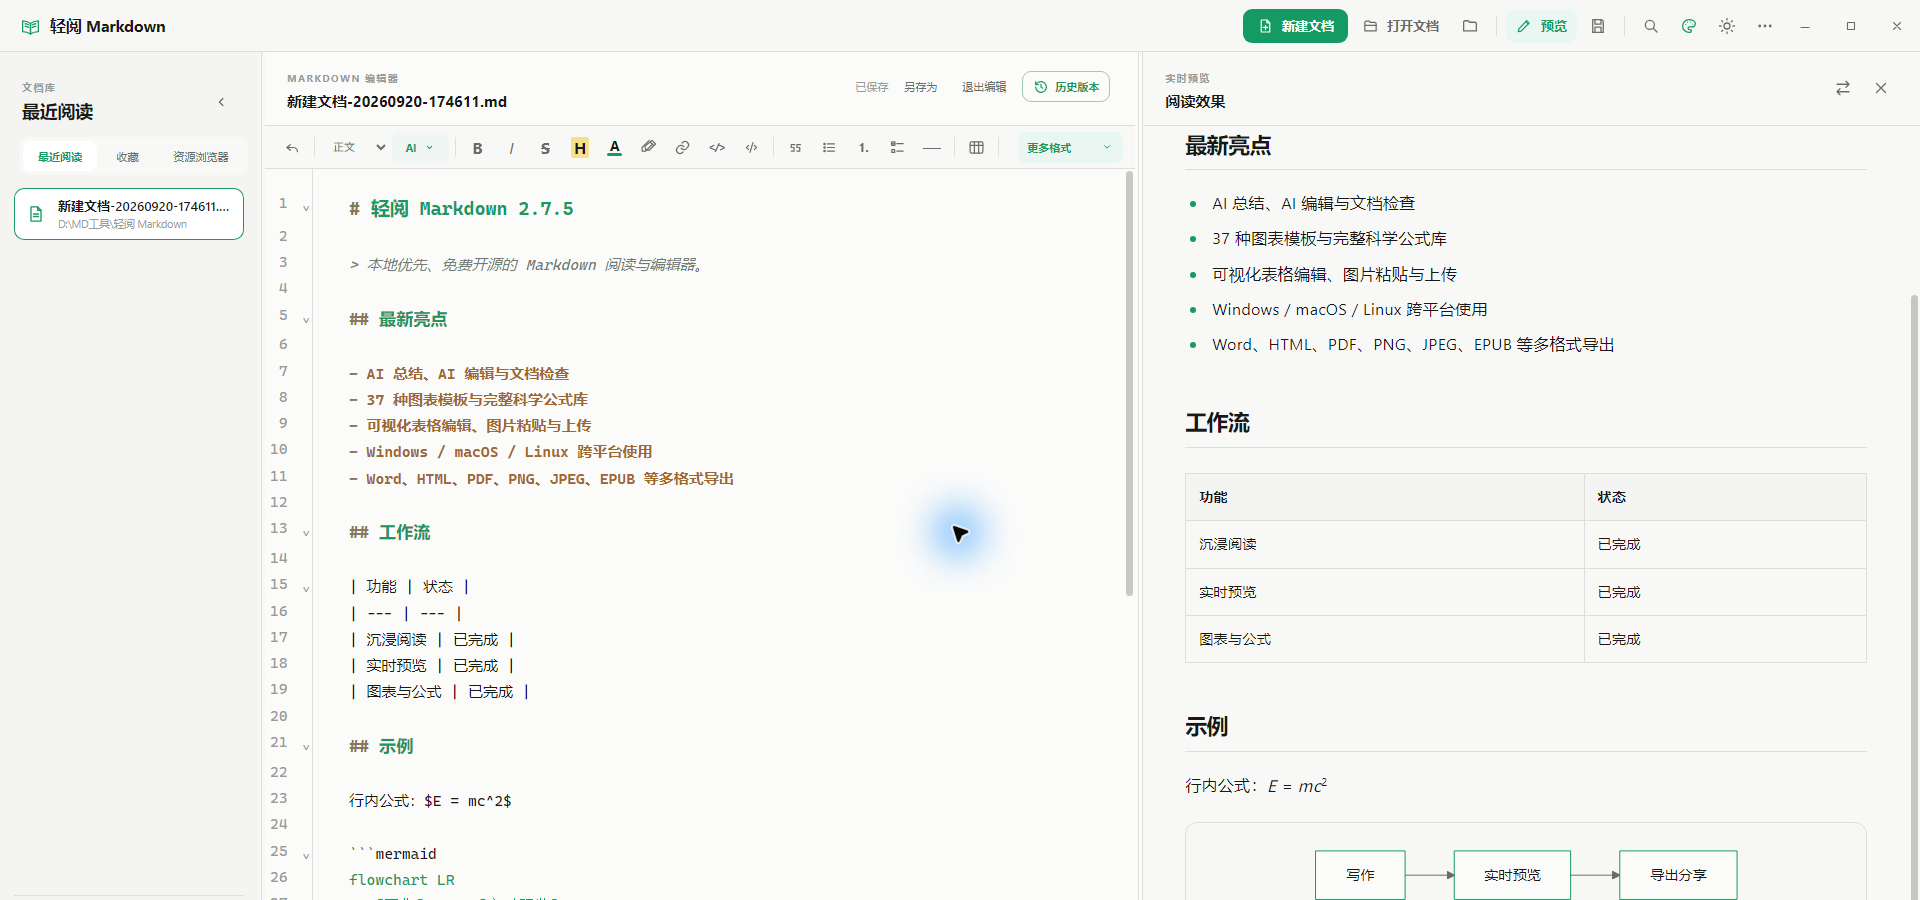
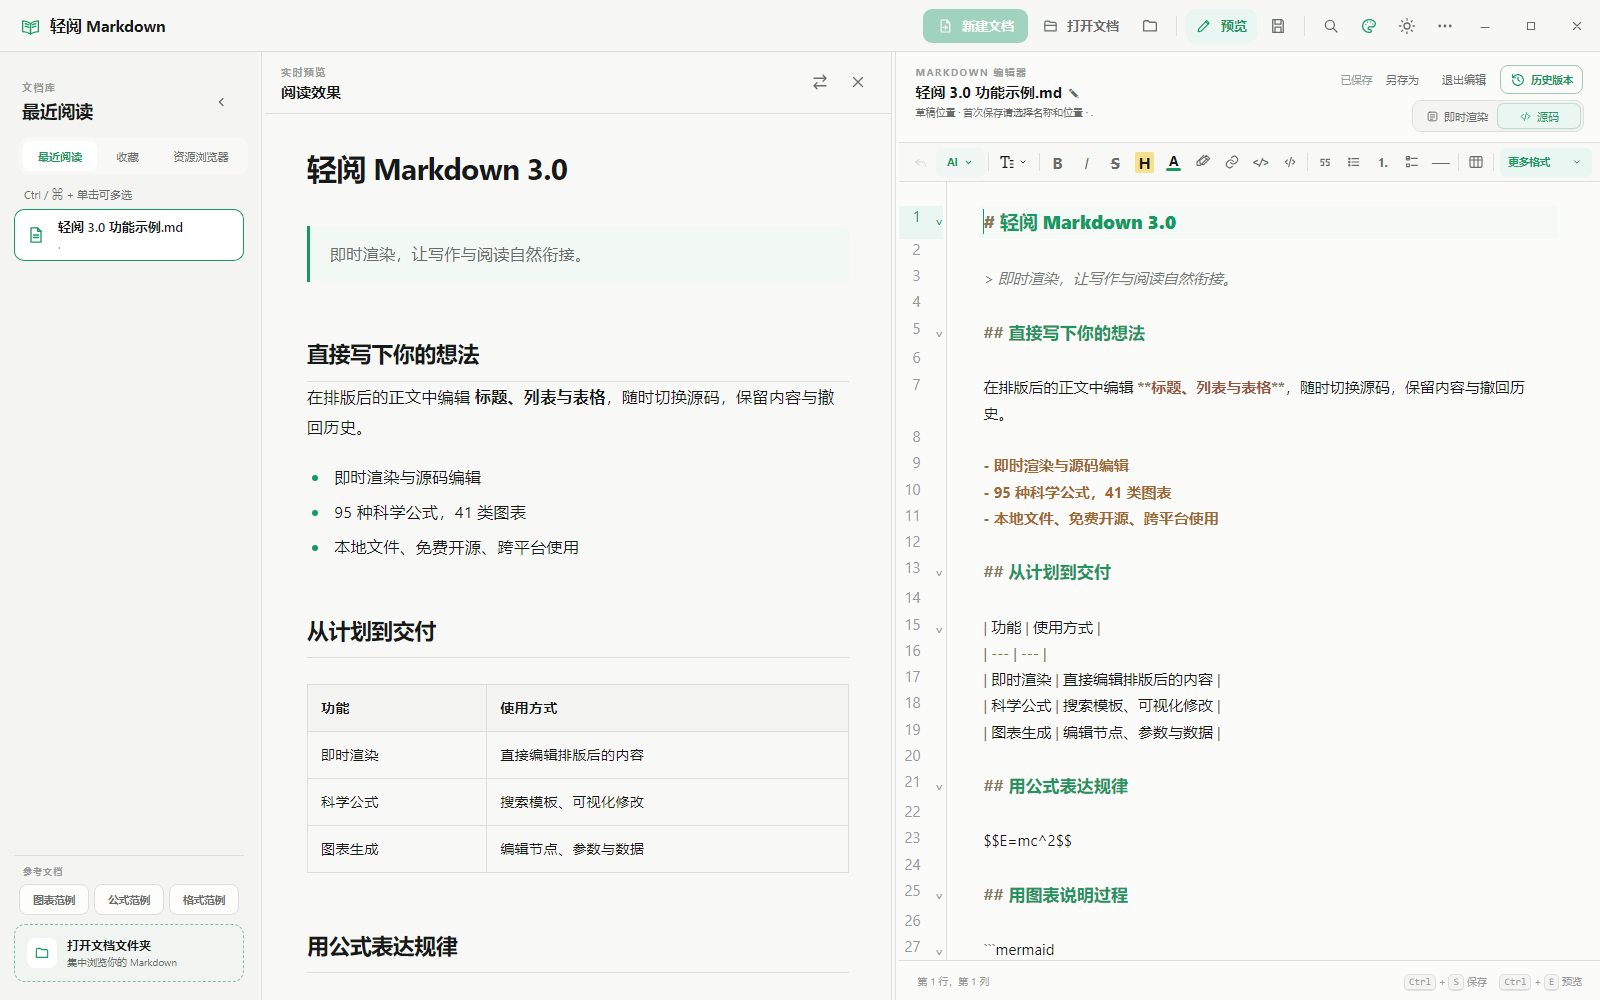
docs: publish current v3.0.0 screenshots and live editing gallery

diff --git a/screenshots/README.md b/screenshots/README.md
@@ -1,0 +1,21 @@
+# Product screenshots
+
+Updated 2026-10-19 for Quillite Markdown 3.0.0. Captured from the maintained application's actual frontend (`frontend/src/main.js` and `renderer.js`), using isolated browser preferences and bilingual sample Markdown documents. These are application UI captures, not a recreated marketing mockup. Native window controls and file-system operations are not exercised by this capture method.
+
+Reviewed against the current V3.0.0 interface on 2026-10-20. The main README files present live editing first and select light/dark images using `<picture>`.
+
+Each image is 1600 × 1000 pixels, with matching Chinese / English and light / dark variants:
+
+- `01-home.png`: Home and example-document entry points.
+- `02-reader.png`: Reading view and outline.
+- `03-split-editor.png`: Markdown source with a separate preview.
+- `04-live-editor.png`: Live-rendered editing and the Live editing / Source switch.
+
+Chinese light images are in this directory; dark images are in `dark/`. English images are in `en/` and `en/dark/`. Preserve native aspect ratio when displaying them.
+
+| View | 中文 · 浅色 | 中文 · 深色 | English · Light | English · Dark |
+|---|---|---|---|---|
+| Home | [首页](01-home.png) | [首页](dark/01-home.png) | [Home](en/01-home.png) | [Home](en/dark/01-home.png) |
+| Reader | [阅读](02-reader.png) | [阅读](dark/02-reader.png) | [Reader](en/02-reader.png) | [Reader](en/dark/02-reader.png) |
+| Source + preview | [源码分栏](03-split-editor.png) | [源码分栏](dark/03-split-editor.png) | [Source + preview](en/03-split-editor.png) | [Source + preview](en/dark/03-split-editor.png) |
+| Live editing | [即时渲染](04-live-editor.png) | [即时渲染](dark/04-live-editor.png) | [Live editing](en/04-live-editor.png) | [Live editing](en/dark/04-live-editor.png) |

diff --git a/README.en.md b/README.en.md
@@ -109,13 +109,27 @@ Preview builds on CommonMark/GFM with extensions such as highlights and footnote
 
 ## Screenshots
 
+Actual V3.0.0 interface captured with sample documents. Images follow the browser's light/dark preference.
+
+Live-rendered editing: type directly in rendered prose, lists and tables.
+
+<picture>
+  <source media="(prefers-color-scheme: dark)" srcset="screenshots/en/dark/04-live-editor.png">
+  <img src="screenshots/en/04-live-editor.png" alt="V3.0.0 live editing with full-width content, an in-place table and the Live editing / Source switch">
+</picture>
+
 | Home | Reader |
 |---|---|
-| ![Home](screenshots/en/01-home.png) | ![Reader](screenshots/en/02-reader.png) |
+| <picture><source media="(prefers-color-scheme: dark)" srcset="screenshots/en/dark/01-home.png"><img src="screenshots/en/01-home.png" alt="V3.0.0 home with chart, equation and formatting examples"></picture> | <picture><source media="(prefers-color-scheme: dark)" srcset="screenshots/en/dark/02-reader.png"><img src="screenshots/en/02-reader.png" alt="V3.0.0 reader with a searchable document outline"></picture> |
 
-![Editing with split preview](screenshots/en/03-split-editor.png)
+Source editing with split preview: clicking Source restores the preview, and either pane orientation is available.
 
-Screenshots illustrate the layout; see Quick start above for current mode and preview behavior.
+<picture>
+  <source media="(prefers-color-scheme: dark)" srcset="screenshots/en/dark/03-split-editor.png">
+  <img src="screenshots/en/03-split-editor.png" alt="V3.0.0 Markdown source editing beside an independent reading preview">
+</picture>
+
+See Quick start for mode and preview behavior. The [full screenshot gallery and capture notes](screenshots/README.md) include Chinese/English and light/dark variants.
 
 ## Development
 

diff --git a/README.md b/README.md
@@ -109,13 +109,27 @@
 
 ## 项目截图
 
+V3.0.0 实际界面，使用示例文档拍摄；截图会随浏览器的明暗偏好选择对应版本。
+
+即时渲染编辑：直接在排版后的正文、列表和表格中输入。
+
+<picture>
+  <source media="(prefers-color-scheme: dark)" srcset="screenshots/dark/04-live-editor.png">
+  <img src="screenshots/04-live-editor.png" alt="V3.0.0 即时渲染编辑：全宽正文、原位表格与即时渲染／源码切换器">
+</picture>
+
 | 首页 | 阅读界面 |
 |---|---|
-| ![首页](screenshots/01-home.png) | ![阅读界面](screenshots/02-reader.png) |
+| <picture><source media="(prefers-color-scheme: dark)" srcset="screenshots/dark/01-home.png"><img src="screenshots/01-home.png" alt="V3.0.0 首页与图表、公式、格式范例入口"></picture> | <picture><source media="(prefers-color-scheme: dark)" srcset="screenshots/dark/02-reader.png"><img src="screenshots/02-reader.png" alt="V3.0.0 阅读界面与可搜索标题目录"></picture> |
 
-![编辑与分栏预览](screenshots/03-split-editor.png)
+源码编辑与分栏预览：点击“源码”自动恢复分栏，也可交换左右位置。
 
-截图展示界面布局；当前模式联动与按钮操作见上方“快速上手”。
+<picture>
+  <source media="(prefers-color-scheme: dark)" srcset="screenshots/dark/03-split-editor.png">
+  <img src="screenshots/03-split-editor.png" alt="V3.0.0 源码编辑与独立阅读预览分栏">
+</picture>
+
+模式联动与按钮操作见“快速上手”；[完整截图与拍摄说明](screenshots/README.md)包含中英文和明暗主题版本。
 
 ## 本地开发
 
